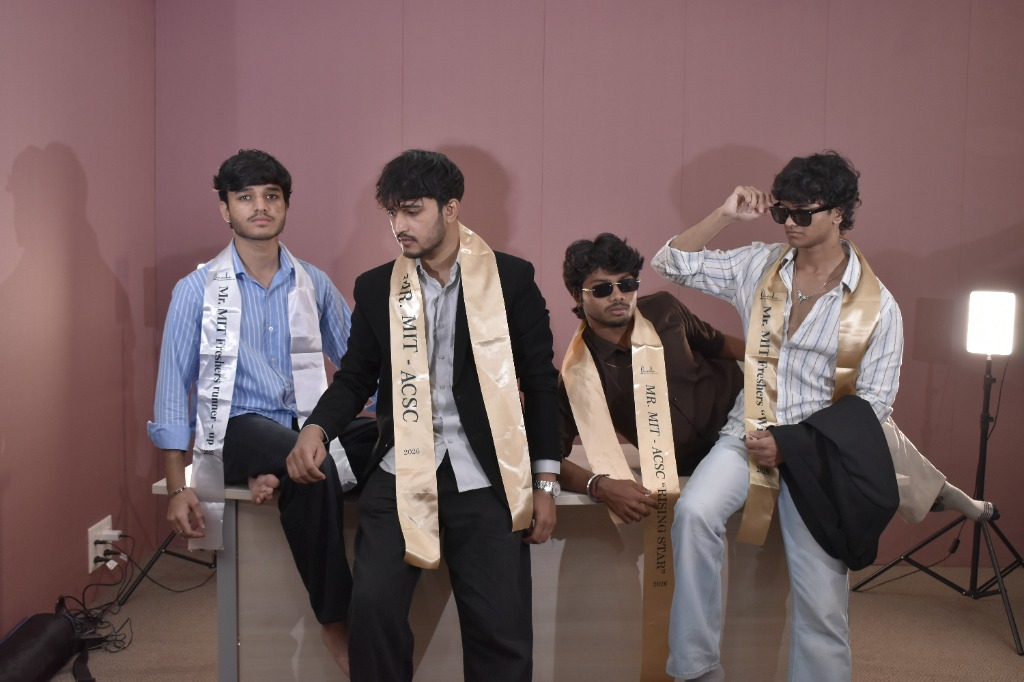
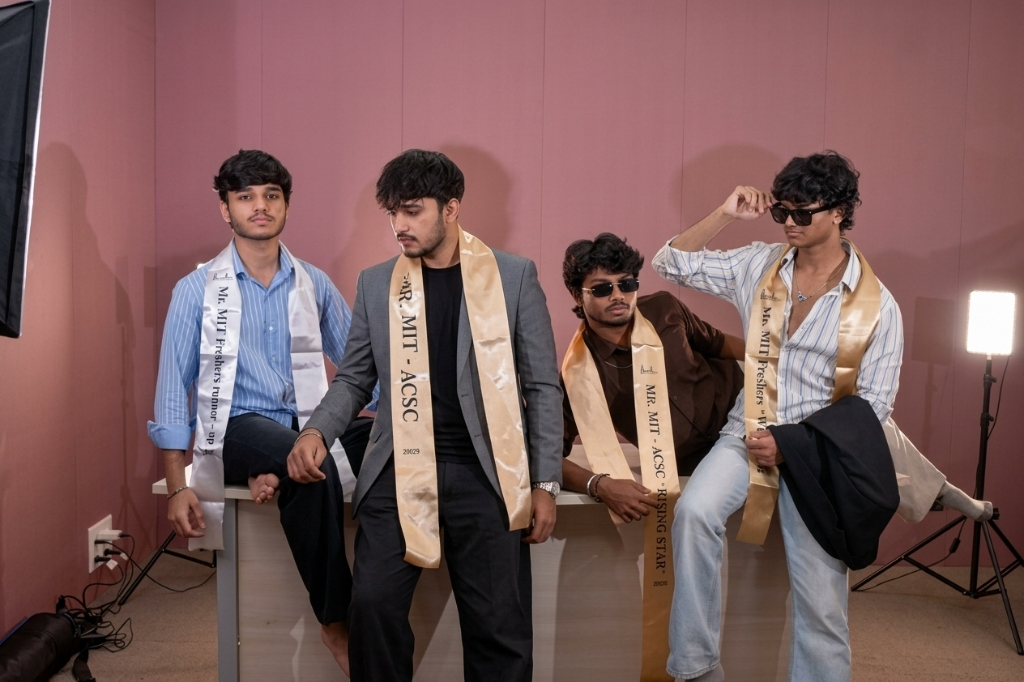
Replace Slide 2 with newly uploaded high-res image in hero slider

diff --git a/src/components/sections/Hero.tsx b/src/components/sections/Hero.tsx
@@ -13,7 +13,7 @@ const heroImages = [
   {
     src: "/hero2.jpg",
     desktopPosition: "center center",
-    mobilePosition: "center 30%",
+    mobilePosition: "52% 35%",
   },
   {
     src: "/hero3.jpg",
